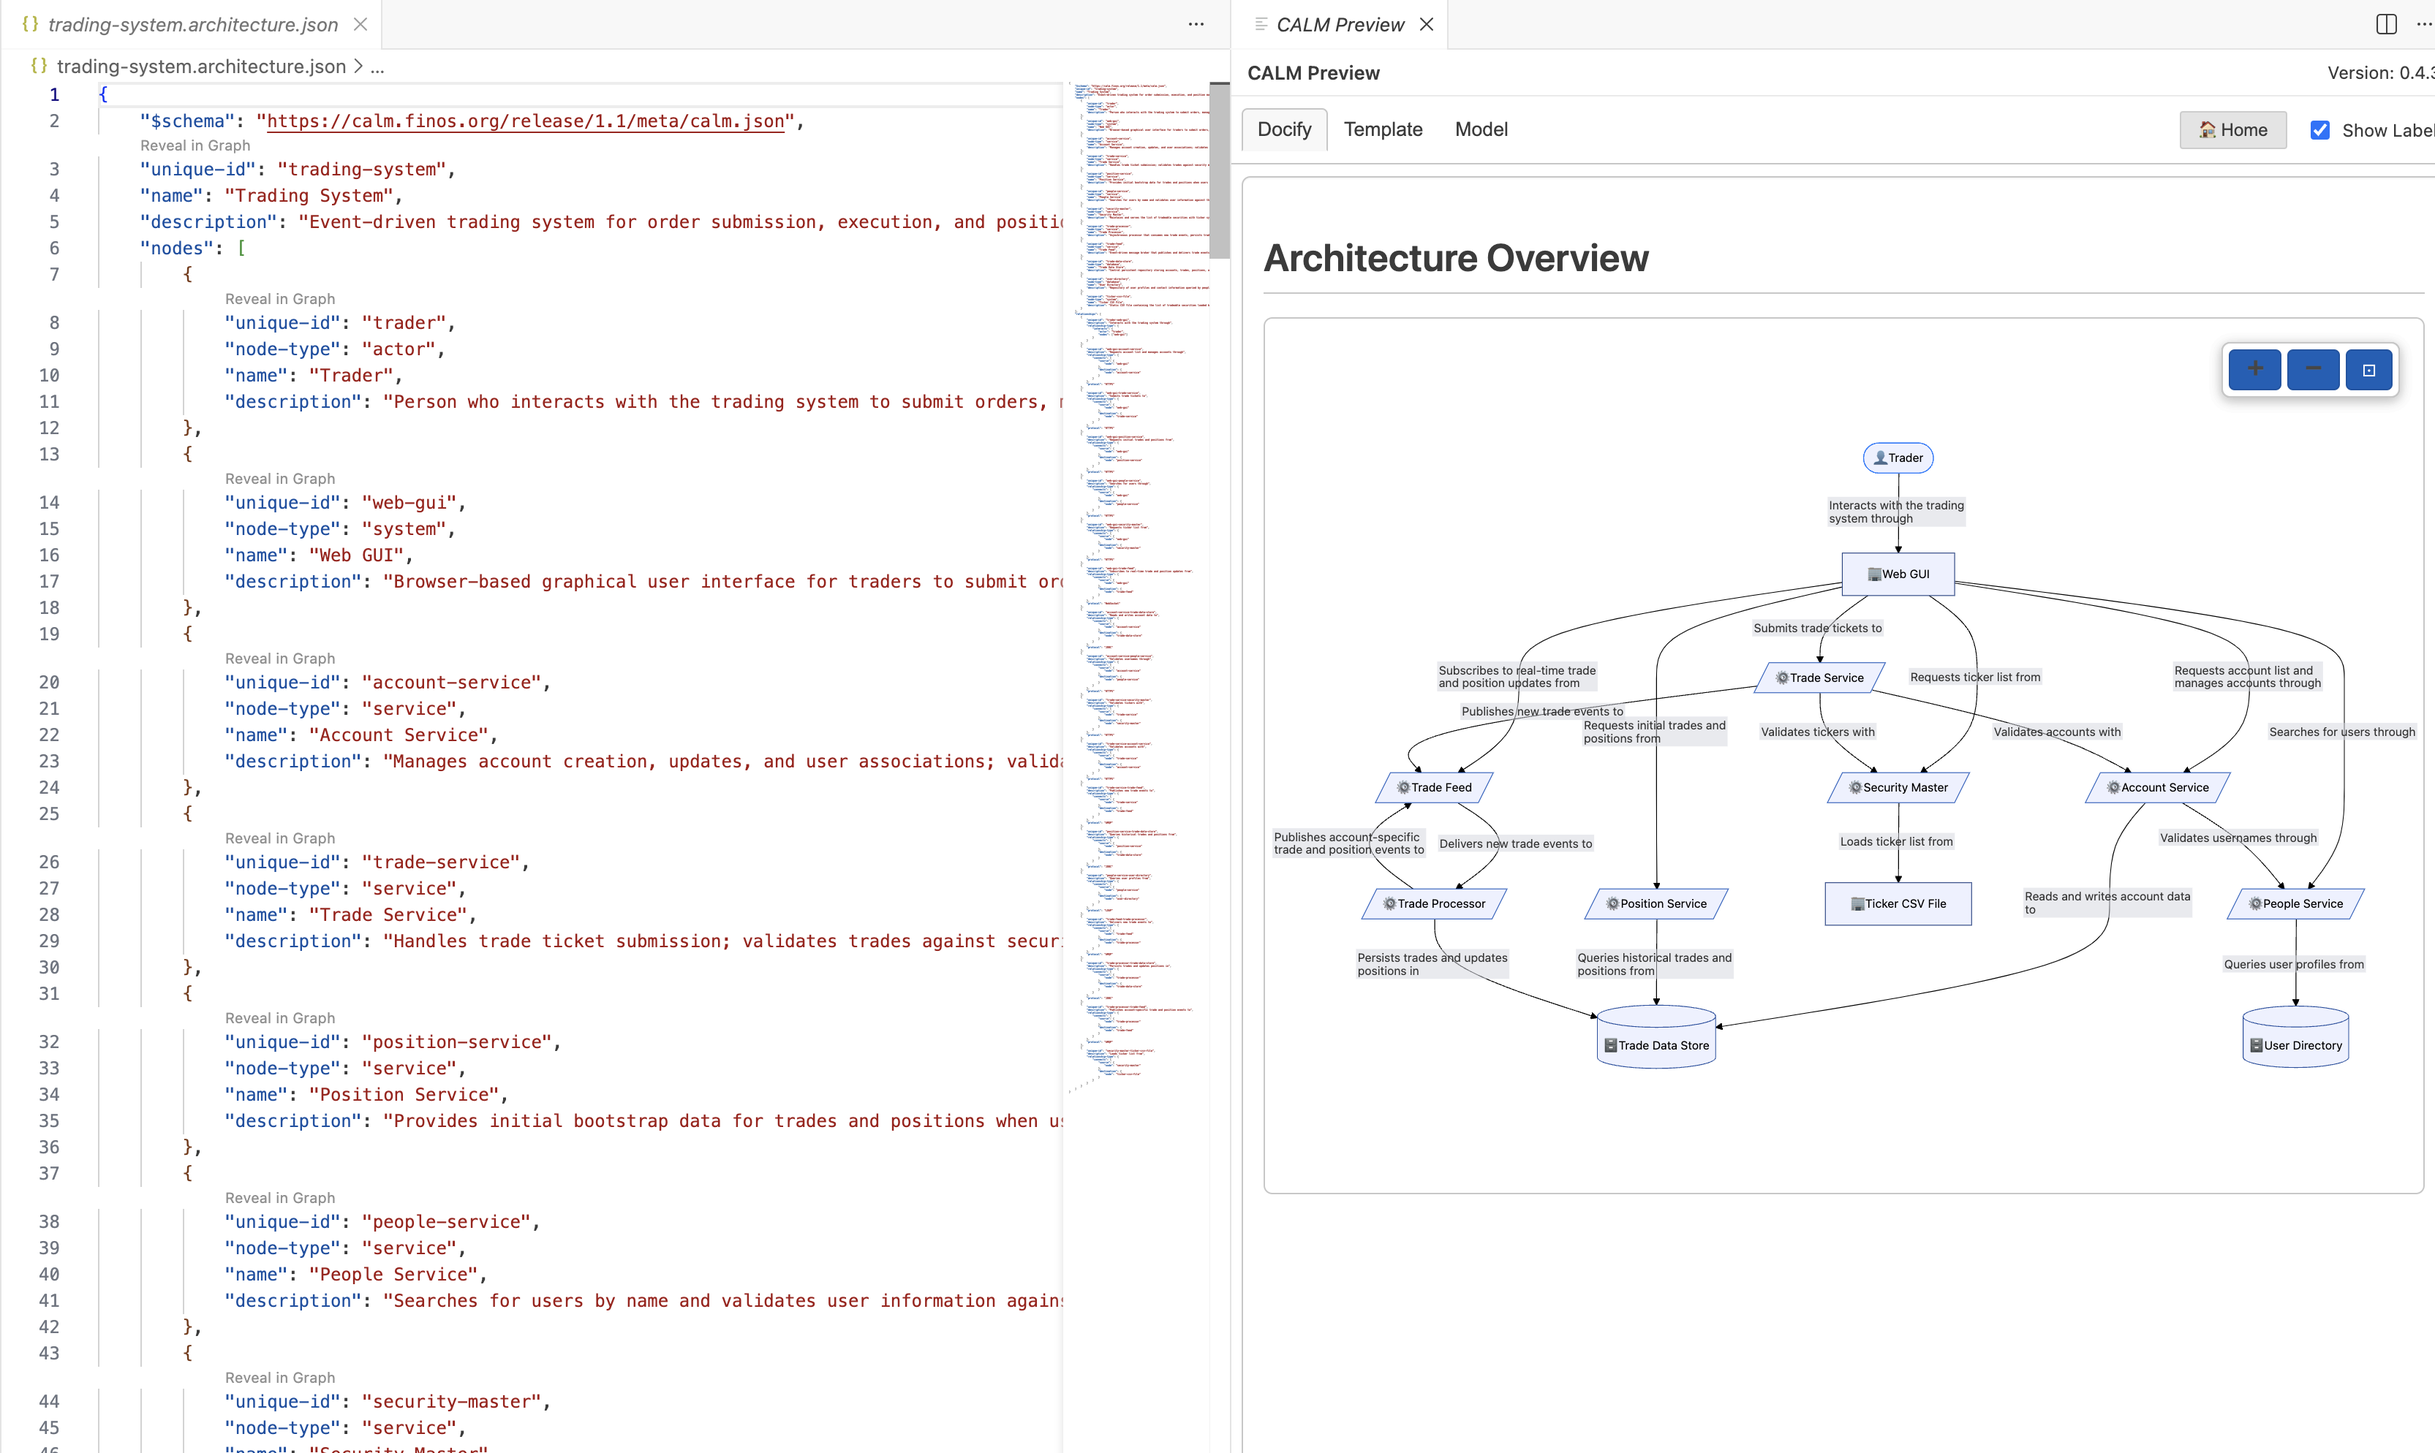
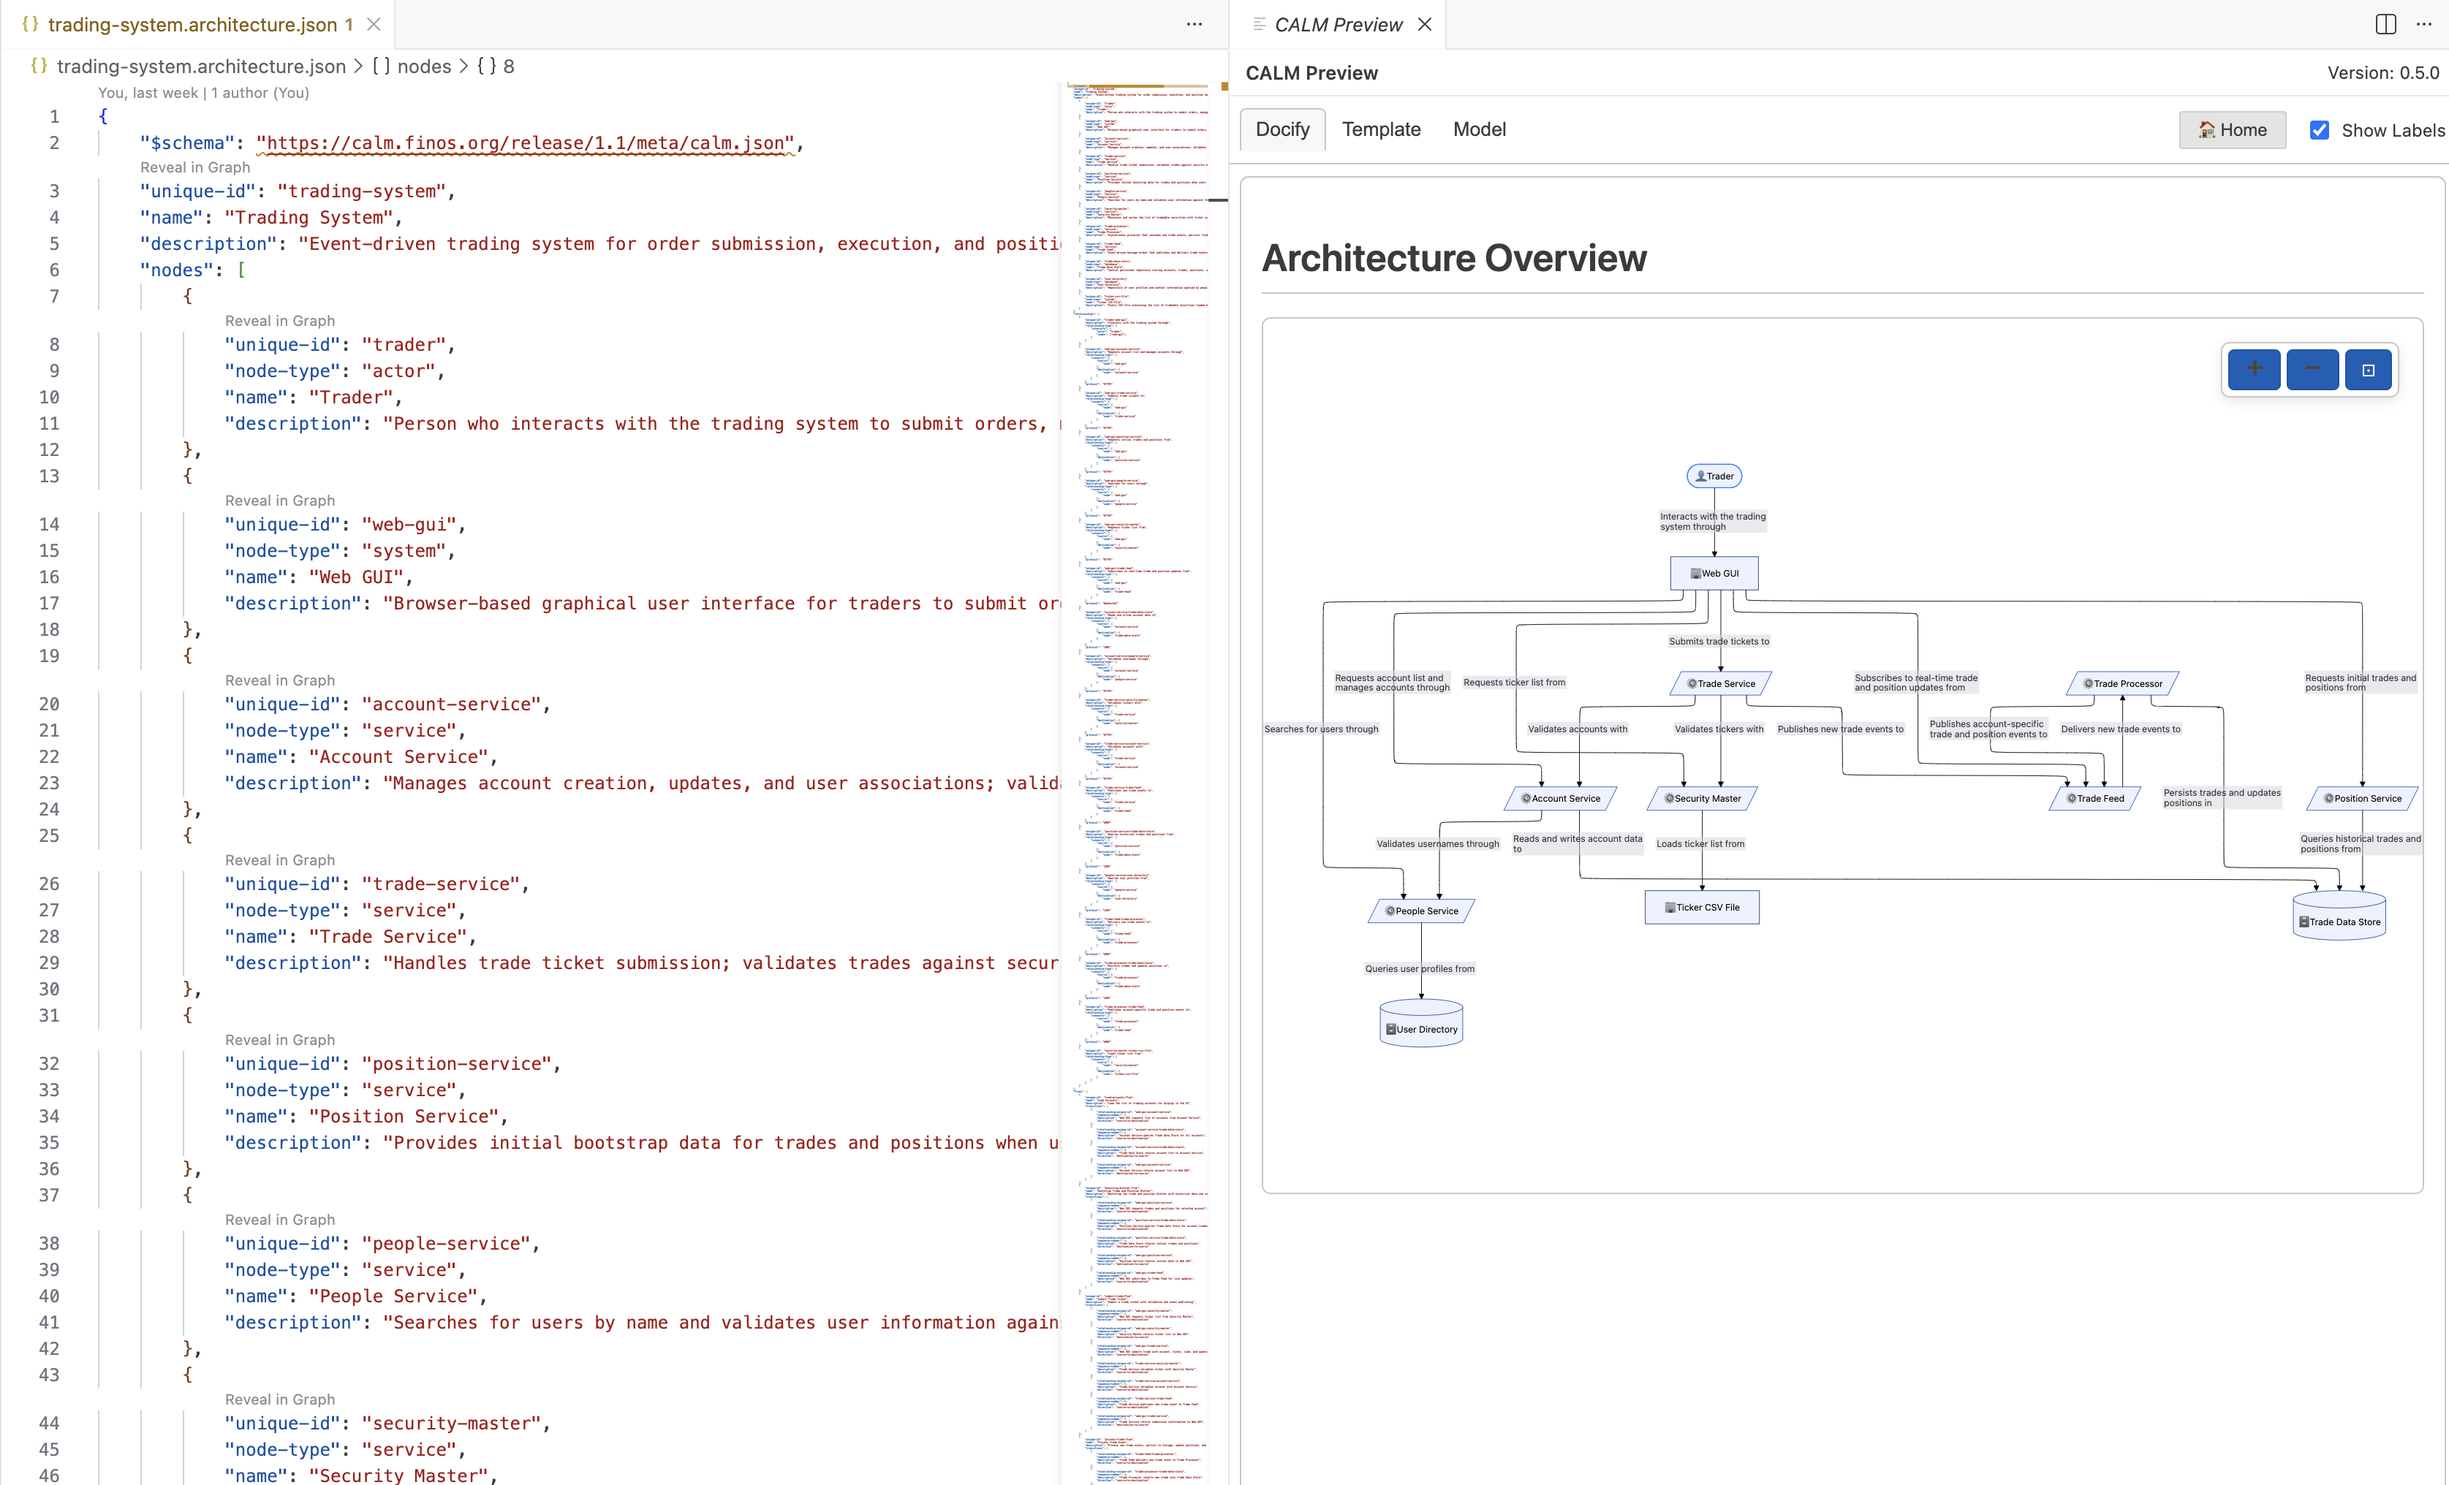
docs: Enhance CALM architecture tutorial with trading system boundary and revised images

diff --git a/docs/static/calm-example/trading-system-sad.md b/docs/static/calm-example/trading-system-sad.md
@@ -22,26 +22,30 @@ config:
     edgeLabelBackground: '#d5d7e1'
     lineColor: '#000000'
 ---
-%%{init: {"flowchart": {"htmlLabels": false}}}%%
+%%{init: {"layout": "elk", "flowchart": {"htmlLabels": false}}}%%
 flowchart TB
 classDef boundary fill:#e1e4f0,stroke:#204485,stroke-dasharray: 5 4,stroke-width:1px,color:#000000;
 classDef node fill:#eef1ff,stroke:#007dff,stroke-width:1px,color:#000000;
 classDef iface fill:#f0f0f0,stroke:#b6b6b6,stroke-width:1px,font-size:10px,color:#000000;
 classDef highlight fill:#fdf7ec,stroke:#f0c060,stroke-width:1px,color:#000000;
 
+        subgraph trading-system["Trading System"]
+        direction TB
+            account-service["Account Service"]:::node
+            people-service["People Service"]:::node
+            position-service["Position Service"]:::node
+            security-master["Security Master"]:::node
+            ticker-csv-file["Ticker CSV File"]:::node
+            trade-data-store["Trade Data Store"]:::node
+            trade-feed["Trade Feed"]:::node
+            trade-processor["Trade Processor"]:::node
+            trade-service["Trade Service"]:::node
+            web-gui["Web GUI"]:::node
+        end
+        class trading-system boundary
 
-    account-service["Account Service"]:::node
-    people-service["People Service"]:::node
-    position-service["Position Service"]:::node
-    security-master["Security Master"]:::node
-    ticker-csv-file["Ticker CSV File"]:::node
-    trade-data-store["Trade Data Store"]:::node
-    trade-feed["Trade Feed"]:::node
-    trade-processor["Trade Processor"]:::node
-    trade-service["Trade Service"]:::node
     trader["Trader"]:::node
     user-directory["User Directory"]:::node
-    web-gui["Web GUI"]:::node
 
     trader -->|Trader interacts with web GUI to submit orders, manage accounts, and view positions| web-gui
     web-gui -->|Web GUI requests account lists, creates/updates accounts, and manages user associations| account-service
@@ -85,11 +89,27 @@ All stored data must be encrypted at rest using AES-256 equivalent encryption wi
 
 ## Architecture Statistics
 
-- **Total Nodes:** 12
-- **Total Relationships:** 17
+- **Total Nodes:** 13
+- **Total Relationships:** 18
 - **Total Flows:** 7
 
 ## Components by Type
+
+### Trading System
+
+**Type:** `system`  
+**Unique ID:** `trading-system`
+
+#### Description
+Complete trading system composed of services, data stores, and user interfaces for order management and trade processing
+
+
+This component exposes the following interfaces:
+
+
+
+
+---
 
 ### Trader
 

diff --git a/docs/docs/tutorials/build-a-calm-architecture/enhance-architecture-definition.md b/docs/docs/tutorials/build-a-calm-architecture/enhance-architecture-definition.md
@@ -876,6 +876,60 @@ Ran terminal command:  git add trading-system.architecture.json && git commit -m
 Committed successfully on branch (commit `8393257`). The changes include architecture-level and node-level metadata additions.
 ```
 
+## Document Trading System Boundary
+
+Finally we now want to delineate the boundary of Trading System.
+
+**Prompt to AI Assistant**
+```text
+add a node called "Trading System" of type "system" and create a "composed-of" relationship that adds all nodes 
+except for "Trader" and "User Directory" to the "Trading System" node.
+```
+
+**Response from AI Assistant**
+```text
+I'll add the "Trading System" node and create the composed-of relationship. 
+
+Replacing 18 lines with 45 lines in [](file: trading-system.architecture.json)
+
+Ran terminal command:  calm validate -a trading-system.architecture.json -f pretty
+
+Done! I've added:
+
+1. **New node**: "Trading System" (type: `system`) as the first node in the architecture
+2. **Composed-of relationship**: Links the Trading System container to 10 internal components:
+   - web-gui
+   - trade-service
+   - account-service
+   - position-service
+   - people-service
+   - security-master
+   - trade-processor
+   - trade-data-store
+   - ticker-csv-file
+   - trade-feed
+
+The architecture validates successfully with no errors or warnings. The "trader" actor and "user-directory" LDAP remain external to the Trading System as requested.
+
+Made changes.
+```
+
+Architecture with system boundary depicted.
+
+![Trading System Boundary](./images/12_trading_system_boundary.png)
+
+**Prompt to AI Assistant**
+```text
+commit changes with message "add trading system boundary"
+```
+
+**Response from AI Assistant**
+```text
+Ran terminal command:  git add trading-system.architecture.json && git commit -m "add trading system boundary"
+
+Committed successfully! The changes have been saved to the repository with commit hash `b93691c`.
+```
+
 ## Summary
 
 In this portion of the tutorial we have enhanced the architecture definition with technical information, i.e., endpoint specifications, Controls, and metadata.

diff --git a/docs/docs/tutorials/build-a-calm-architecture/generate-documentation.md b/docs/docs/tutorials/build-a-calm-architecture/generate-documentation.md
@@ -137,16 +137,16 @@ info [_TemplateProcessor]:
 
 These are screenshots of portions of the generated markdown document.
 
-#### Overall Architecture with metadata
+### Overall Architecture with metadata
 ![Overall Architecture](./images/11_custom_doc_01.png)
 
-#### Overall Architecture Controls
+### Architecture Controls and Statistics
 ![Overall Architecture Controls](./images/11_custom_doc_02.png)
 
-#### Example Node information
+### Example Node information
 ![Node Level Information](./images/11_custom_doc_03.png)
 
-#### Example Process Flow information
+### Example Process Flow information
 ![Process Flow Information](./images/11_custom_doc_04.png)
 
 ---

diff --git a/docs/docs/tutorials/build-a-calm-architecture/define-initial-architecture.md b/docs/docs/tutorials/build-a-calm-architecture/define-initial-architecture.md
@@ -384,7 +384,7 @@ _Note_:  Whenever an update is made to the architecture file, the `calm validate
 ![Raw Architecture JSON](./images/00_initial_architecture_json.png)
 
 
-## Using CALM Tool VSCode extenstion, review parts of the architecture representation
+## Using CALM Tool VSCode extension, review parts of the architecture representation
 
 Review the updated architecture file content.  If any issues are detected, prompt the AI Assistant or manually update the JSON file for corrections.
 
